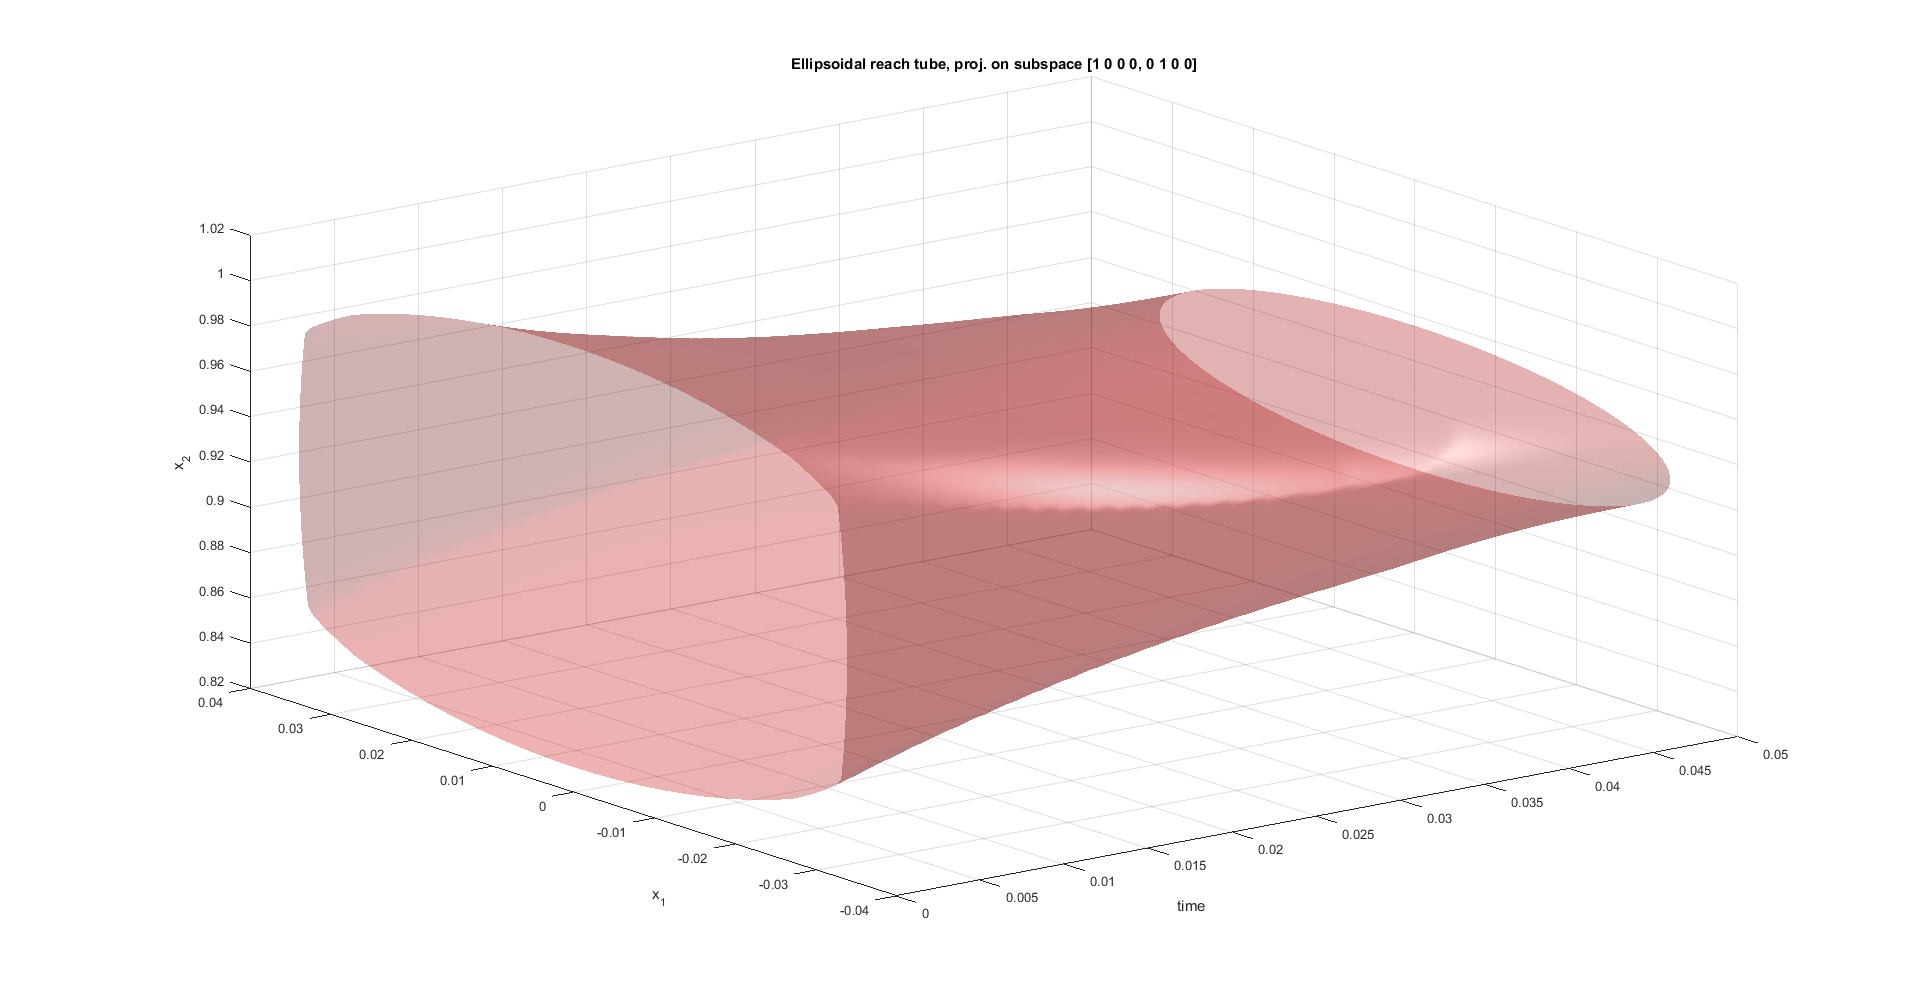
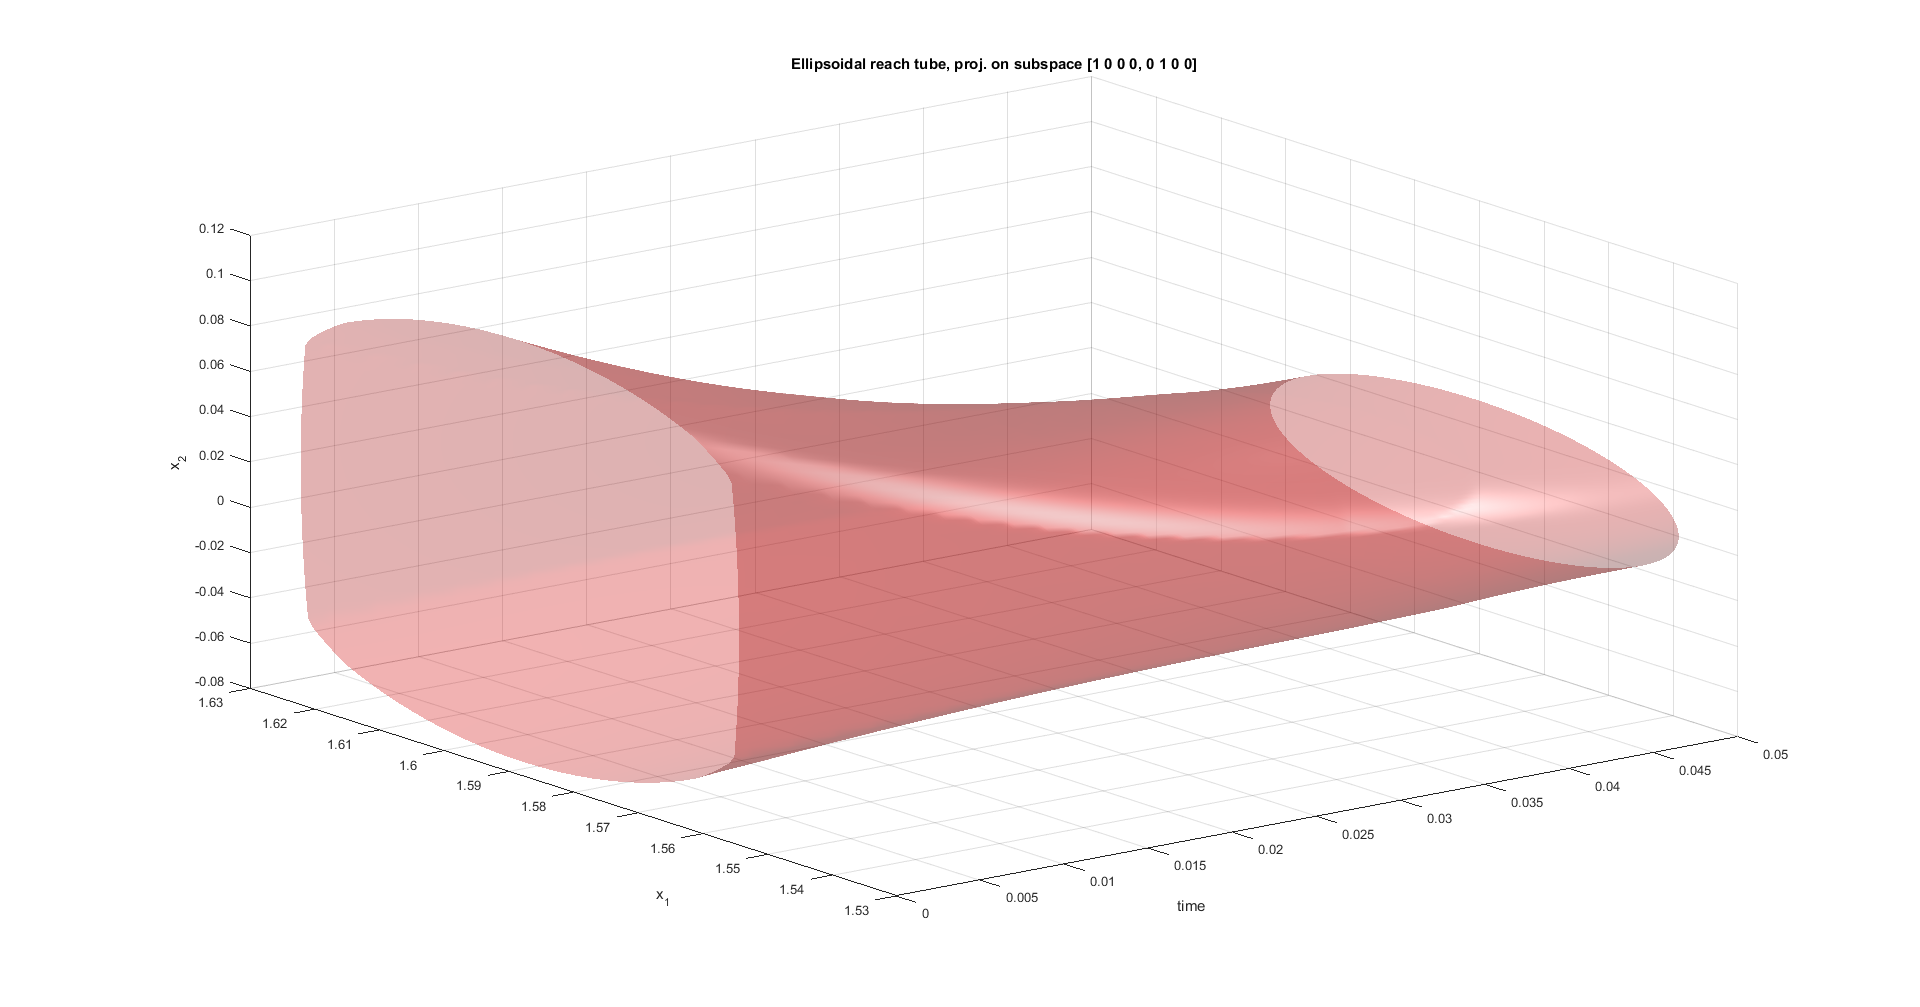
issue #55: BugFix: Fixed some wording in the description of model. BugFix: Fixed the final position and due to this fixed pictures and description of model. BugFix: Fixed the direction matrix.

diff --git a/products/+elltool/+doc/+snip/s_chapter06_section06_snippet01.m b/products/+elltool/+doc/+snip/s_chapter06_section06_snippet01.m
@@ -16,7 +16,7 @@ aMat = [0 0 -1 0; 0 0 0 1;...
     sysConst2/sysConst1 0 kVec(1)/sysConst1 ...
     -(kVec(2)/jVec(2) + 2*kVec(2)/sysConst1)];
 bMat = [0 0; 0 0; -1/sysConst1 0; 0 (1/jVec(2))+1/sysConst1];
-x1Vec = [0; cos(pi/8); 0; 0];
+x1Vec = [pi/2; 0; 0; 0];
 endTime=0.05;
 % Creating ellipsoid for pointwise restrictions on control
 diagMat = diag(uVec);
@@ -24,18 +24,19 @@ uEllObj = ellipsoid(diagMat);
 % Defining linear system
 linSysObj=elltool.linsys.LinSysContinuous(aMat, bMat, uEllObj);
 % Initializing directions matrix
-nDims = 4;
-nDirs = 1;
-dirMeshVec = 0:(2*pi/nDirs):2*pi;
-dirNum = length(dirMeshVec)^nDims;
-[x1, x2, x3, x4] = ndgrid(dirMeshVec,dirMeshVec,dirMeshVec,dirMeshVec);
-lineDir1Mat = reshape( x1, [1, dirNum]);
-lineDir2Mat = reshape( x2, [1, dirNum]);
-lineDir3Mat = reshape( x3, [1, dirNum]);
-lineDir4Mat = reshape( x4, [1, dirNum]);
+nDims = 3;
+nDirs = 3;
+dirMesh1Vec = 0:(2*pi/nDirs):2*pi;%phi
+dirMesh2Vec = 0:(pi/nDirs):pi;%psi
+dirMesh3Vec = 0:(pi/nDirs):pi;%theta
+[phiMat, psiMat, zetaMat] = ndgrid(dirMesh1Vec,dirMesh2Vec,dirMesh3Vec);
+lineDir1Mat = reshape( cos(phiMat), 1, []);
+lineDir2Mat = reshape( sin(phiMat).*cos(psiMat), 1, []);
+lineDir3Mat = reshape( sin(phiMat).*sin(psiMat).*cos(zetaMat), 1, []);
+lineDir4Mat = reshape( sin(phiMat).*sin(psiMat).*sin(zetaMat), 1, []);
 dirMat = [lineDir1Mat; lineDir2Mat; lineDir3Mat; lineDir4Mat];
 dirMat = dirMat(:,2:end);
-dirMat = dirMat ./ sqrt(repmat(sum(dirMat.^2,1), nDims, 1));
+dirMat = dirMat ./ sqrt(repmat(sum(dirMat.^2,1), nDims+1, 1));
 % Set of final states
 x1EllObj = 1E-3 * ell_unitball(4) + x1Vec; 
 % Calculating solvability set

diff --git a/products/+elltool/+doc/+snip/s_chapter06_section06_snippet03.m b/products/+elltool/+doc/+snip/s_chapter06_section06_snippet03.m
@@ -1,4 +1,4 @@
-% Creating projection matrix and draw projection on axis (x_1, x_2)
+% Creating projection matrix and drawing projection on axis (x_1, x_2)
 condBasisMat = [1 0 0 0 ; 0 1 0 0]';
 prTubeObj = solvObj.projection(condBasisMat);
 plObj = smartdb.disp.RelationDataPlotter('figureGroupKeySuffFunc', ...

diff --git a/products/+elltool/+doc/+snip/s_chapter06_section06_snippet02.m b/products/+elltool/+doc/+snip/s_chapter06_section06_snippet02.m
@@ -1,4 +1,4 @@
-% Creating projection matrix and draw projection on axis (x_3, x_4)
+% Creating projection matrix and drawing projection on axis (x_3, x_4)
 velBasisMat = [0 0 1 0 ; 0 0 0 1]';
 prTubeObj = solvObj.projection(velBasisMat);
 plObj = smartdb.disp.RelationDataPlotter('figureGroupKeySuffFunc', ...

diff --git a/doc/chap_examples.rst b/doc/chap_examples.rst
@@ -635,13 +635,13 @@ Defining :math:`\dot{\theta} = \omega_1` and :math:`\dot{\phi} = \omega_2`, we c
 	\end{aligned}
 	\right. 
 
-Consider some final time instant :math:`t_1` and final position of the system: :math:`\theta(t_1) = \frac{\pi}{2}`, :math:`\phi(t_1) = \phi_1`, :math:`\omega_1(t_1) = 0`, :math:`\omega_2(t_1) = 0`. Required to calculate the backward reachability sets (tube) for the linearized system :eq:`standform` emanating from the given final position. Also required to invistigate whether it's possible to reach the final position from a given initial position :math:`\theta(t_0) = \theta_0`, :math:`\phi(t_0) = \phi_0`, :math:`\omega_1(t_0) = \omega_{1,0}`, :math:`\omega_2(t_0) = \omega_{2,0}` using some admissible control function.   
+Consider some final time instant :math:`t_1` and final position of the system: :math:`\theta(t_1) = \frac{\pi}{2}`, :math:`\phi(t_1) = 0`, :math:`\omega_1(t_1) = 0`, :math:`\omega_2(t_1) = 0`. Required to calculate the backward reachability sets (tube) for the linearized system :eq:`standform` emanating from the given final position. Also required to invistigate whether it's possible to reach the final position from a given initial position :math:`\theta(t_0) = \theta_0`, :math:`\phi(t_0) = \phi_0`, :math:`\omega_1(t_0) = \omega_{1,0}`, :math:`\omega_2(t_0) = \omega_{2,0}` using some admissible control function.   
 
 .. literalinclude:: ../products/+elltool/+doc/+snip//s_chapter06_section06_snippet01.m
    :language: matlab
    :linenos:
 
-Now compute the solvability set of the linear system and take its projection onto the subspace :math:`(x_1,x_2)`.
+Now compute the solvability tube of the linear system and take its projection onto the subspace :math:`(x_1,x_2)`.
 
 .. literalinclude:: ../products/+elltool/+doc/+snip//s_chapter06_section06_snippet03.m
    :language: matlab
@@ -655,7 +655,7 @@ Now compute the solvability set of the linear system and take its projection ont
    :alt: rlc
    :width: 100 %
 
-   Figure shows solvability set projection onto the subspace :math:`(x_1,x_2)`. 
+   Figure shows solvability sets projection onto the subspace :math:`(x_1,x_2)`. 
 
 
 .. literalinclude:: ../products/+elltool/+doc/+snip//s_chapter06_section06_snippet02.m
@@ -671,7 +671,7 @@ Now look how the system evolves in the projection onto speed axes. For this purp
    :alt: rlc
    :width: 100 %
 
-   Figure shows solvability set projection onto the subspace :math:`(x_3,x_4)`.
+   Figure shows solvability sets projection onto the subspace :math:`(x_3,x_4)`.
 
 :num:`Figure #coordpr` and :num:`Figure #speedpr` show the initial amplitude and speed of the system in order to reach a small neighborhood of unstable 
 equilibrium :math:`\theta \sim \frac{\pi}{2}`. Thus, in order to reach a neighborhood of this point in a rather short time, it is necessary to initially be near this position.
